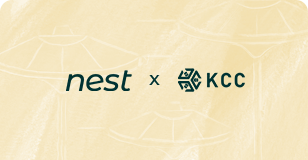
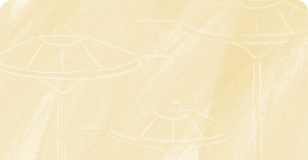
update

Changed region(s): [[0.5552, 0.4062, 0.8182, 0.5938], [0.2045, 0.4375, 0.4383, 0.5938], [0.4675, 0.4688, 0.526, 0.5312]]

diff --git a/src/pages/Learn/index.tsx b/src/pages/Learn/index.tsx
@@ -20,6 +20,10 @@ import Blogs_pic_5 from '../../assets/webp/Blogs_pic_5.webp'
 import Blogs_pic_6 from '../../assets/webp/Blogs_pic_6.webp'
 import { Helmet } from 'react-helmet'
 import NEST_icon1  from '../../assets/webp/NEST_icon_1.webp'
+import blogs_logo_1 from '../../assets/webp/blogs_logo_1.webp'
+import blogs_logo_2 from '../../assets/webp/blogs_logo_2.webp'
+import NEST_logo from '../../assets/svg/nest.svg'
+
 
 const Learn = () => {
   const [isDesktop] = useMediaQuery('(min-width: 768px)')
@@ -122,36 +126,42 @@ const Learn = () => {
               {
                 label: 'Top Infrastructural Award',
                 bg: Blogs_pic_1,
+                logo: blogs_logo_1,
                 desc: 'Based on the feedback of KCC community, and the voting results at the Unicorn Contest, NEST has been awarded “Top Infrastructural Award”!',
                 link: 'https://twitter.com/nest_protocol/status/1531909822408699904?s=21'
               },
               {
                 label: 'NEST v4.4 Upgrade Proposal',
                 bg: Blogs_pic_2,
+                logo: blogs_logo_2,
                 desc: 'Voting for the NEST v4.4 upgrade is now open on snapshot, please participate and cast your vote!',
                 link: 'https://snapshot.org/#/nestprotocols.eth/proposal/0xc44f29b7a8695fc3379fa34d6e78bf933d9d4493121d2d66160a25b8175816a9'
               },
               {
                 label: 'NEST Oracle Special Awards in KCC',
                 bg: Blogs_pic_3,
+                logo: NEST_logo,
                 desc: 'NEST Foundation will pro vide awards, advisory sessions, and integration support to Kucoin Community Chain (KCC) developers',
                 link: 'https://www.newsbtc.com/press-releases/nest-oracle-special-awards-in-kcc-unicorn-contest/'
               },
               {
                 label: 'Strategic Partnership with MAP Protocol',
                 bg: Blogs_pic_4,
+                logo: blogs_logo_1,
                 desc: 'NEST has become the first oracle in MAP ecosystem and provides reliable price for the transactions',
                 link: 'https://www.goldentreenews.com/news/article.html?no=278663'
               },
               {
                 label: 'What is NEST, a decentralized price oracle network',
                 bg: Blogs_pic_5,
+                logo: blogs_logo_2,
                 desc: 'NEST is one of the projects that is developing the technology to provide this Oracle service in a decentralized way',
                 link: 'https://coinpost.jp/?p=226764'
               },
               {
                 label: 'NEST Protocol project overview and NEST coin',
                 bg: Blogs_pic_6,
+                logo: NEST_logo,
                 desc: 'The project uses a unique “quote mining” mechanism to ensure that off-chain price data is generated on-chain in a synchronous manner',
                 link: 'https://coin68.com/nest-protocol-la-gi/'
               }
@@ -173,7 +183,7 @@ const Learn = () => {
                        w={'full'} bgSize={"cover"}
                        align={"center"} justify={"center"}
                        h={['120px', '160px']}>
-                  {/*<chakra.img src={item.bg} _hover={{ transform: 'scale(1.05)' }}/>*/}
+                  <chakra.img src={item.logo} _hover={{ transform: 'scale(1.05)' }}/>
                 </Stack>
                 <VStack
                   w={'full'}
